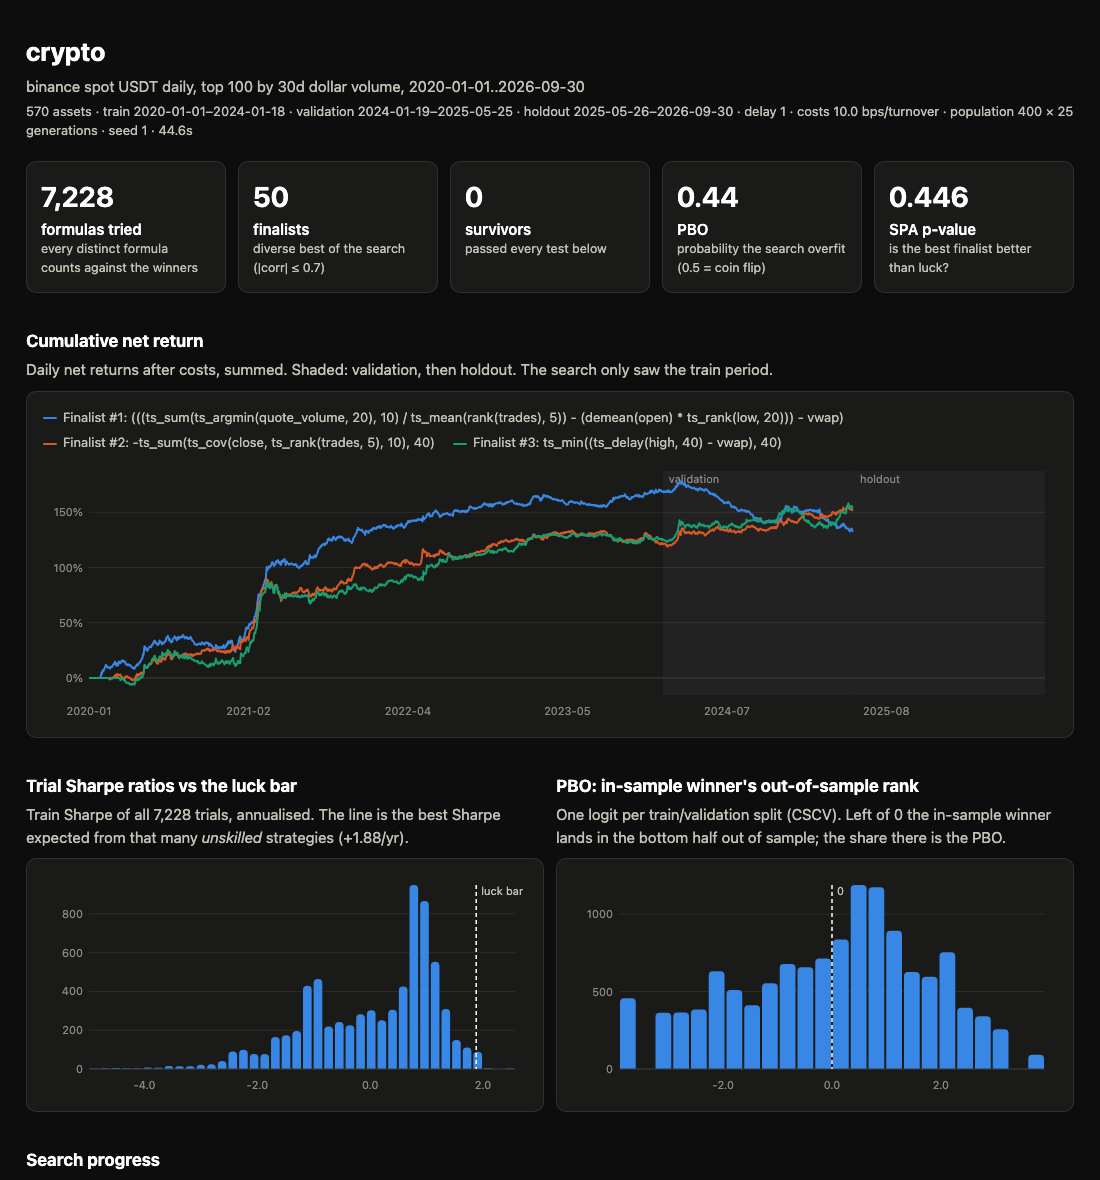
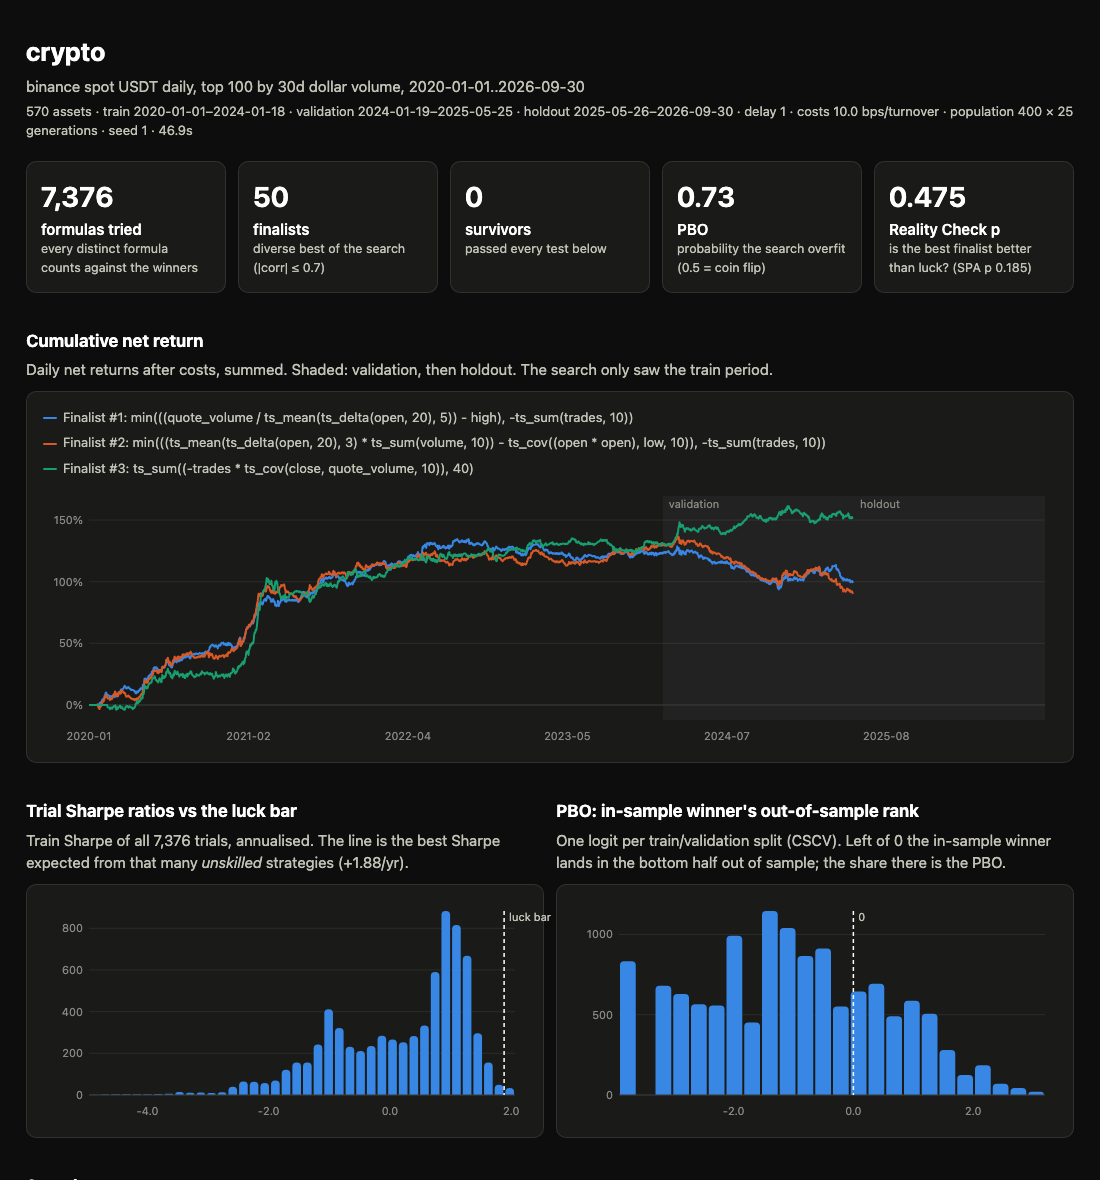
Fixes from independent review: full-window ts_delay/ts_delta, Reality Check as the gate (SPA size measured 8-9%), exact constants, CRC check, gap off-by-one, strict JSON; re-run results

diff --git a/src/falsealpha/report.py b/src/falsealpha/report.py
@@ -97,7 +97,8 @@ def build(run_dir: str | Path) -> str:
     if v["pbo"]:
         tiles.append((f"{v['pbo']['pbo']:.2f}", "PBO", "probability the search overfit (0.5 = coin flip)"))
     if v["snoop"]:
-        tiles.append((f"{v['snoop']['spa_p']:.3f}", "SPA p-value", "is the best finalist better than luck?"))
+        tiles.append((f"{v['snoop']['reality_check_p']:.3f}", "Reality Check p",
+                      f"is the best finalist better than luck? (SPA p {v['snoop']['spa_p']:.3f})"))
     if looks and looks[-1].get("combined"):
         c = looks[-1]["combined"]
         tiles.append((f"{c['sharpe_annual']:+.2f}", "holdout Sharpe /yr", f"combined survivors, {c['days']} days"))
@@ -215,7 +216,7 @@ out of sample; the share there is the PBO.</p><div class=card id=pbo></div></div
 
 <h2>Finalists</h2>
 <p class=muted>Pass = train DSR ≥ 0.95 against all trials, validation Sharpe &gt; 0 with DSR ≥ 0.95 against the
-finalists, and the SPA gate open. Sharpe ratios annualised.</p>
+finalists, and the Reality Check gate open. Sharpe ratios annualised.</p>
 <div class="card tablewrap"><table><thead><tr><th class=num>#</th><th>formula</th><th class=num>train Sharpe</th>
 <th class=num>train DSR</th><th class=num>val Sharpe</th><th class=num>val DSR</th><th>verdict</th><th>why</th></tr>
 </thead><tbody>%TABLE%</tbody></table></div>
@@ -224,9 +225,10 @@ finalists, and the SPA gate open. Sharpe ratios annualised.</p>
 <div class=card>%LOOKS%</div>
 <details><summary>How to read this</summary>
 <p><b>DSR</b> (Deflated Sharpe Ratio, Bailey &amp; López de Prado 2014): probability the true Sharpe beats the best
-you'd expect from that many unskilled tries. <b>SPA</b> (Hansen 2005): p-value that the best finalist's validation
-returns beat zero after accounting for having looked at all finalists. <b>PBO</b> (Bailey, Borwein, López de Prado
-&amp; Zhu 2017): how often picking the in-sample best leads to a below-median strategy out of sample. The holdout
+you'd expect from that many unskilled tries. <b>Reality Check</b> (White 2000): p-value that the best finalist's
+validation returns beat zero after accounting for having looked at all finalists; <b>SPA</b> (Hansen 2005) is the
+studentised version, shown for reference. <b>PBO</b> (Bailey, Borwein, López de Prado &amp; Zhu 2017): how often
+picking the in-sample best finalist leads to a below-median one out of sample. The holdout
 is never shown to the search and opens once; every look is logged.</p></details>
 </main>
 <script>

diff --git a/src/falsealpha/firewall.py b/src/falsealpha/firewall.py
@@ -14,11 +14,14 @@ and validation and holdout are scored after the fact. Tests, in order:
    independent trials (near-copies are correlated), so the test is conservative.
 2. Validation Deflated Sharpe. The finalists are fresh trials on unseen days,
    deflated for the number of finalists.
-3. Hansen's SPA and White's Reality Check on validation. Is the best finalist
-   better than flat after allowing for the fact that we looked at all of them?
-   This is a global gate: if it fails, nothing survives.
-4. PBO by CSCV over train + validation, a property of the whole procedure:
-   how often the in-sample winner lands in the bottom half out of sample.
+3. White's Reality Check on validation: is the best finalist better than flat
+   after allowing for the fact that we looked at all of them? This is a global
+   gate: if it fails, nothing survives. Hansen's SPA (studentised, consistent
+   recentring) is reported too, but not used as the gate: with ~500 validation
+   days and 50 finalists its measured size is 8-9% at a nominal 5% (1,000 null
+   simulations), while the Reality Check holds 4.5-6%.
+4. PBO by CSCV over the finalists' train + validation returns: how often the
+   in-sample winner among them lands in the bottom half out of sample.
 
 A finalist survives if it passes 1 and 2 with a positive validation Sharpe
 and the gate in 3 is open.
@@ -81,7 +84,7 @@ def run(ledger_sharpe: np.ndarray, nets: np.ndarray, train: slice, val: slice, t
 
     excess = np.nan_to_num(nets[:, val], nan=0.0)
     out["snoop"] = _core.snoop_tests(excess, t.bootstraps, t.mean_block, t.seed)
-    gate = out["snoop"]["spa_p"] < t.snoop_alpha
+    gate = out["snoop"]["reality_check_p"] < t.snoop_alpha
 
     span = np.nan_to_num(nets[:, train.start:val.stop], nan=0.0)
     if K >= 2 and span.shape[1] >= 2 * t.pbo_blocks:
@@ -98,7 +101,7 @@ def run(ledger_sharpe: np.ndarray, nets: np.ndarray, train: slice, val: slice, t
         elif not va["dsr"] >= t.dsr:
             reasons.append(f"validation DSR {va['dsr']:.3f} < {t.dsr}")
         if not gate:
-            reasons.append(f"SPA p {out['snoop']['spa_p']:.3f} >= {t.snoop_alpha} (gate closed)")
+            reasons.append(f"Reality Check p {out['snoop']['reality_check_p']:.3f} >= {t.snoop_alpha} (gate closed)")
         row["passed"] = not reasons
         row["reasons"] = reasons
         if not reasons:

diff --git a/src/falsealpha/run.py b/src/falsealpha/run.py
@@ -123,7 +123,7 @@ def mine(panel_path: str | Path, run_dir: str | Path, cfg: MineConfig, splits: S
         finalists.append({"formula": h["formula"], "fitness": h["fitness"], **v})
     verdict = {**verdict, "finalists": finalists}
     verdict["weights"] = firewall.combine(nets[verdict["survivors"]], val).tolist() if verdict["survivors"] else []
-    (run_dir / "finalists.json").write_text(json.dumps(verdict, indent=2, default=_json_default))
+    (run_dir / "finalists.json").write_text(json.dumps(_strict(verdict), indent=2, allow_nan=False))
     np.save(run_dir / "nets.npy", nets)
     return verdict
 
@@ -159,7 +159,7 @@ def unseal(run_dir: str | Path, force: bool = False) -> dict:
         look["combined"] = _holdout_stats(combo, ppy)
         look["combined_net"] = combo.tolist()
     log["looks"].append(look)
-    log_path.write_text(json.dumps(log, indent=2, default=_json_default))
+    log_path.write_text(json.dumps(_strict(log), indent=2, allow_nan=False))
     return look
 
 
@@ -172,9 +172,15 @@ def _holdout_stats(net: np.ndarray, ppy: float) -> dict:
             "total_return": float(curve[-1]) if len(curve) else 0.0, "days": m["n"]}
 
 
-def _json_default(x):
-    if isinstance(x, np.ndarray):
-        return x.tolist()
-    if isinstance(x, np.generic):
-        return x.item()
-    raise TypeError(type(x))
+def _strict(x):
+    """NaN/inf -> null, so the run files are strict JSON."""
+    if isinstance(x, dict):
+        return {k: _strict(v) for k, v in x.items()}
+    if isinstance(x, (list, tuple)):
+        return [_strict(v) for v in x]
+    if isinstance(x, (np.ndarray, np.generic)):
+        return _strict(x.tolist())
+    if isinstance(x, float) and not math.isfinite(x):
+        return None
+    return x
+

diff --git a/tests/test_binance.py b/tests/test_binance.py
@@ -42,6 +42,31 @@ def test_lives_split_on_long_gaps():
     assert [len(x) for x in lives] == [3, 2]
 
 
+def test_gap_rule_is_more_than_n_missing_days():
+    def days(gap):
+        return np.array(["2022-01-01", str(np.datetime64("2022-01-01") + gap + 1)], dtype="datetime64[D]")
+
+    assert len(binance.lives(days(7), gap_days=7)) == 1  # exactly 7 missing days: same asset
+    assert len(binance.lives(days(8), gap_days=7)) == 2
+
+
+def test_corrupt_download_is_not_cached(tmp_path, monkeypatch):
+    import pytest
+
+    buf = io.BytesIO()
+    with zipfile.ZipFile(buf, "w") as zf:
+        zf.writestr("X-1d-2020-01.csv", "1,2,3")
+    data = bytearray(buf.getvalue())
+    data[data.index(b"1,2,3")] ^= 0xFF  # flip a byte inside the stored file: CRC mismatch
+    key = "data/spot/monthly/klines/XUSDT/1d/XUSDT-1d-2020-01.zip"
+    monkeypatch.setattr(binance, "symbols", lambda: ["XUSDT"])
+    monkeypatch.setattr(binance, "_list", lambda prefix: ([], [key]))
+    monkeypatch.setattr(binance, "_get", lambda url: bytes(data))
+    with pytest.raises(OSError, match="corrupt"):
+        binance.download(tmp_path, log=lambda *_: None)
+    assert not list(tmp_path.rglob("*.zip"))
+
+
 def test_panel_from_cache(tmp_path):
     n = 120
     # BIG trades a lot for the whole period; DEAD is liquid then delisted after 90 days;

diff --git a/src/falsealpha/binance.py b/src/falsealpha/binance.py
@@ -124,7 +124,9 @@ def download(cache: Path, start: str = "2017-01", workers: int = 16, log=print) 
 
     def fetch(key: str) -> None:
         data = _get(f"{FILES}/{urllib.parse.quote(key)}")
-        zipfile.ZipFile(io.BytesIO(data)).testzip()  # CRC check before caching
+        bad = zipfile.ZipFile(io.BytesIO(data)).testzip()  # returns the first corrupt member, or None
+        if bad is not None:
+            raise OSError(f"{key}: corrupt download ({bad}); run again to refetch")
         dest = cache / Path(key).parent.parent.name / Path(key).name
         dest.parent.mkdir(parents=True, exist_ok=True)
         tmp = dest.with_suffix(".part")
@@ -163,7 +165,8 @@ def lives(days: np.ndarray, gap_days: int) -> list[np.ndarray]:
     """Split sorted candle days into separate assets at gaps longer than gap_days."""
     if len(days) == 0:
         return []
-    cuts = np.nonzero(np.diff(days).astype(int) > gap_days)[0] + 1
+    missing = np.diff(days).astype(int) - 1  # days without a candle between two candles
+    cuts = np.nonzero(missing > gap_days)[0] + 1
     return np.split(days, cuts)
 
 

diff --git a/scripts/snoop_size.py b/scripts/snoop_size.py
@@ -1,0 +1,26 @@
+"""Size of the Reality Check and SPA tests where the firewall uses them.
+
+1,000 simulations each of K zero-mean strategies (no edge at all) over T days,
+1,000 stationary-bootstrap draws with mean block 10, as in the firewall. A
+test's size is how often it rejects at p < 0.05; it should be about 0.05.
+Usage: python scripts/snoop_size.py
+"""
+
+from concurrent.futures import ThreadPoolExecutor
+
+import numpy as np
+
+import falsealpha as fa
+
+
+def one(seed: int, K: int, T: int, rho: float) -> tuple[bool, bool]:
+    rng = np.random.default_rng(seed)
+    x = np.sqrt(rho) * rng.normal(size=T) + np.sqrt(1 - rho) * rng.normal(size=(K, T))
+    r = fa.snoop_tests(0.01 * x, 1000, 10.0, seed + 1)
+    return r["reality_check_p"] < 0.05, r["spa_p"] < 0.05
+
+
+for K, T, rho in [(50, 490, 0.0), (50, 490, 0.5), (20, 1000, 0.0)]:
+    with ThreadPoolExecutor() as pool:
+        hits = np.array(list(pool.map(lambda s: one(s, K, T, rho), range(1000))))
+    print(f"K={K:>3} T={T:>5} corr={rho}: Reality Check size {hits[:, 0].mean():.3f}   SPA size {hits[:, 1].mean():.3f}")

diff --git a/cpp/src/ops.cpp b/cpp/src/ops.cpp
@@ -225,11 +225,15 @@ Mat apply_series(Op op, const Mat& a, const Mat* b, int d) {
     Mat out(T, N);
 
     if (op == Op::Delay || op == Op::Delta) {
-        for (std::size_t t = D; t < T; ++t)
-            for (std::size_t n = 0; n < N; ++n) {
-                double now = a(t, n), then = a(t - D, n);
-                if (fin(now) && fin(then)) out(t, n) = op == Op::Delay ? then : now - then;
-            }
+        // Like every window op, the whole window [t-d, t] must be real data: a
+        // gap in between (e.g. a redenomination during a suspension) masks it.
+        Rolling nan_count(a, d + 1);
+        for (std::size_t t = 0; t < T; ++t) {
+            nan_count.step(t);
+            if (t < D) continue;
+            for (std::size_t n = 0; n < N; ++n)
+                if (nan_count.bad[n] == 0) out(t, n) = op == Op::Delay ? a(t - D, n) : a(t, n) - a(t - D, n);
+        }
         return out;
     }
     if (op == Op::TsMax || op == Op::TsMin) return sliding_extreme(a, d, op == Op::TsMax);

diff --git a/src/falsealpha/cli.py b/src/falsealpha/cli.py
@@ -90,9 +90,9 @@ def _print_verdict(v: dict, ppy: float) -> None:
     print(f"\n{v['n_trials']} formulas tried -> {v['n_finalists']} finalists -> {len(v['survivors'])} survivors")
     print(f"  luck bar (train): best of {v['n_trials']} unskilled strategies ~ Sharpe {_ann(v['sr0_train'], ppy)} /yr")
     if v["snoop"]:
-        print(f"  SPA p {v['snoop']['spa_p']:.3f}   Reality Check p {v['snoop']['reality_check_p']:.3f}")
+        print(f"  Reality Check p {v['snoop']['reality_check_p']:.3f} (gate)   SPA p {v['snoop']['spa_p']:.3f}")
     if v["pbo"]:
-        print(f"  PBO {v['pbo']['pbo']:.2f}  (share of splits where the in-sample winner lands in the bottom half)")
+        print(f"  PBO {v['pbo']['pbo']:.2f}  (share of splits where the in-sample best finalist lands in the bottom half)")
     for f in v["finalists"][:10]:
         mark = "PASS" if f["passed"] else "fail"
         print(f"  [{mark}] train {_ann(f['train']['sharpe'], ppy)} (DSR {f['train']['dsr']:.2f})  "

diff --git a/cpp/tests/test_ops.cpp b/cpp/tests/test_ops.cpp
@@ -121,3 +121,20 @@ TEST_CASE("unknown fields are reported") {
     Data d = test::random_data(10, 3, 1);
     REQUIRE_THROWS_AS(evaluate(parse("rank(vwap)"), d), std::invalid_argument);
 }
+
+TEST_CASE("ts_delay and ts_delta need the whole window, not just its ends") {
+    Data d;
+    d.T = 6; d.N = 1;
+    d.universe.assign(6, 1);
+    Mat c(6, 1);
+    c.v = {100, 100, NaN, 1, 1, 1};  // e.g. a 1:100 redenomination during a suspension
+    d.fields["close"] = c;
+    Mat delta = evaluate(parse("ts_delta(close, 3)"), d);
+    REQUIRE(std::isnan(delta(3, 0)));  // window 0..3 holds the gap
+    REQUIRE(std::isnan(delta(4, 0)));  // 1..4 too
+    REQUIRE(std::isnan(delta(5, 0)));  // 2..5 too
+    Mat delay = evaluate(parse("ts_delay(close, 1)"), d);
+    REQUIRE(delay(1, 0) == Approx(100));
+    REQUIRE(std::isnan(delay(3, 0)));
+    REQUIRE(delay(4, 0) == Approx(1));
+}

diff --git a/cpp/src/expr.cpp b/cpp/src/expr.cpp
@@ -4,6 +4,7 @@
 #include <cctype>
 #include <cmath>
 #include <cstdio>
+#include <cstdlib>
 #include <stdexcept>
 
 namespace fa {
@@ -153,9 +154,13 @@ struct Parser {
     }
 };
 
+// Shortest text that parses back to exactly v (the ledger keys on it).
 std::string fmt_number(double v) {
     char buf[32];
-    std::snprintf(buf, sizeof buf, "%.10g", v);
+    for (int digits = 15; digits <= 17; ++digits) {
+        std::snprintf(buf, sizeof buf, "%.*g", digits, v);
+        if (std::strtod(buf, nullptr) == v) break;
+    }
     return buf;
 }
 

diff --git a/cpp/tests/test_expr.cpp b/cpp/tests/test_expr.cpp
@@ -46,3 +46,9 @@ TEST_CASE("bad formulas are rejected") {
                           "ts_corr(close, volume, 2)", "close +", "close close"})
         REQUIRE_THROWS_AS(parse(s), std::invalid_argument);
 }
+
+TEST_CASE("constants print exactly, so distinct formulas never share a ledger key") {
+    REQUIRE(to_string(parse("close * 1.00000000001")) != to_string(parse("close * 1.00000000002")));
+    REQUIRE(to_string(parse("close * 0.1")) == "(0.1 * close)");
+    REQUIRE(to_string(parse("close + 0.001")) == "(0.001 + close)");
+}

diff --git a/tests/reference.py b/tests/reference.py
@@ -25,8 +25,8 @@ def series(op, x, d, y=None):
     out = np.full(x.shape, np.nan)
     if op in ("ts_delay", "ts_delta"):
         for t in range(d, x.shape[0]):
+            ok = np.isfinite(x[t - d : t + 1]).all(axis=0)
             now, then = x[t], x[t - d]
-            ok = np.isfinite(now) & np.isfinite(then)
             out[t] = np.where(ok, then if op == "ts_delay" else now - then, np.nan)
         return out
     for t, w in _windows(x, d):
